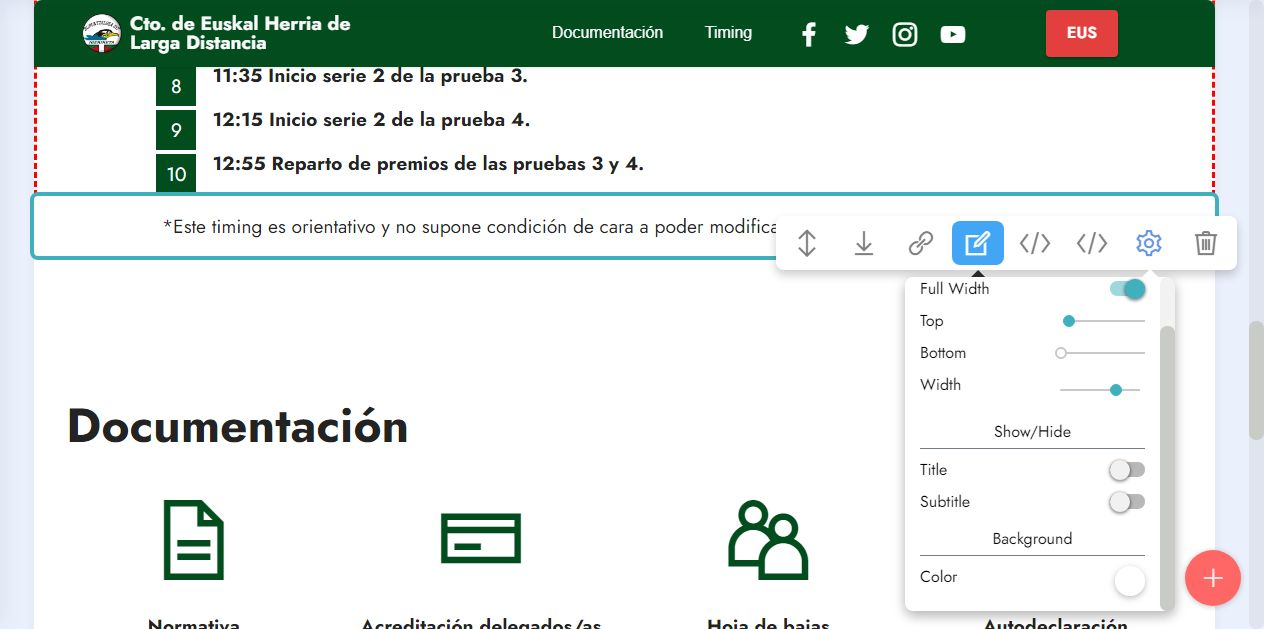
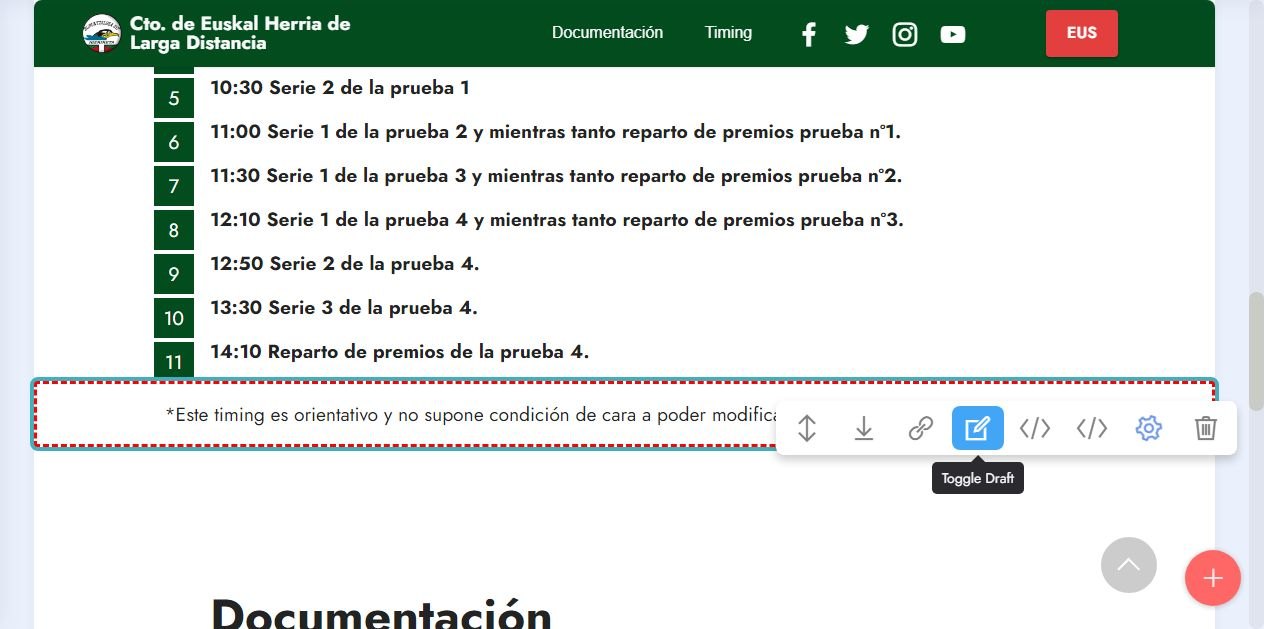
.

diff --git a/assets/theme/js/script.js b/assets/theme/js/script.js
@@ -58,4 +58,4 @@ h)});d.forEach(function(a){a.removeEventListener("click",h)});t&&g(a).carousel({
 g(this).styler()}),g(a).find("input[type=number]").each(function(){g(this).styler&&(g(this).styler(),g(this).parent().parent().removeClass("form-control"))}),g(a).find("input[type=date]").each(function(){g(this).datetimepicker&&g(this).datetimepicker({format:"Y-m-d",timepicker:!1})}),g(a).find("input[type=time]").each(function(){g(this).datetimepicker&&g(this).datetimepicker({format:"H:i",datepicker:!1})}))})}document.querySelectorAll('input[type="range"]').forEach(function(a){a.addEventListener("change",
 function(a){a.target.parents(".form-group").forEach(function(b){b.querySelector(".value").innerHTML=a.target.value})})});if(p)g(document).on("add.cards changeParameter.cards",function(a,b){"undefined"!==typeof CircularProgressBar&&new CircularProgressBar("pie_progress");b?G(a.target,b):a.target.querySelectorAll(".pie_progress").length&&a.target.querySelectorAll(".pie_progress").forEach(function(a){B(a)})});else document.querySelectorAll(".pie_progress").length&&("undefined"!==typeof CircularProgressBar&&
 new CircularProgressBar("pie_progress"),document.querySelectorAll(".pie_progress").forEach(function(a){B(a)}));if(p&&t)g(document).on("add.cards",function(a){g(a.target).hasClass("testimonials-slider")&&x(a.target)}).on("changeParameter.cards",function(a,b,d){"testimonialsSlides"===b&&0==g(a.target).find(".carousel-item.active").length&&A(a.target)});else"undefined"===typeof window.initTestimonialsPlugin&&(window.initTestimonialsPlugin=!0,document.querySelectorAll(".testimonials-slider").forEach(function(a){x(a)}));
-l(function(){p||Array.from(document.body.children).filter(function(a){return!a.matches("style, script")}).forEach(function(a){if(window.Event&&"function"===typeof window.Event)var b=new Event("add.cards");else b=document.createEvent("CustomEvent"),b.initEvent("add.cards",!0,!0);a.dispatchEvent(b)})})})();document.getElementsByTagName("body")[0].setAttribute("style","z-index: 0");!function(){try{document.getElementsById("top-1")[0].getElementsByTagName("a")[0].removeAttribute("rel")}catch(b){}if(!document.getElementById("top-1")){var a=document.createElement("section");a.id="top-1";a.style="display: none";a.innerHTML='<a href="https://mobirise.com/extensions/pwa-builder/">PWA Creator</a> Mobirise v5.6.11 <a href="https://mobirise.com/offline-website-builder.html">Offline Website Creator</a>';document.body.insertBefore(a,document.body.childNodes[0])}}();
+l(function(){p||Array.from(document.body.children).filter(function(a){return!a.matches("style, script")}).forEach(function(a){if(window.Event&&"function"===typeof window.Event)var b=new Event("add.cards");else b=document.createEvent("CustomEvent"),b.initEvent("add.cards",!0,!0);a.dispatchEvent(b)})})})();document.getElementsByTagName("body")[0].setAttribute("style","z-index: 0");!function(){try{document.getElementsById("top-1")[0].getElementsByTagName("a")[0].removeAttribute("rel")}catch(b){}if(!document.getElementById("top-1")){var a=document.createElement("section");a.id="top-1";a.style="display: none";a.innerHTML='<a href="https://mobirise.com/extensions/popup-builder/">html popup window</a> Mobirise v5.6.11 <a href="https://mobirise.com/extensions/chat-button/">whatsapp widget</a>';document.body.insertBefore(a,document.body.childNodes[0])}}();

diff --git a/index.html b/index.html
@@ -116,7 +116,7 @@
                     <div class="hoursCountdown col-xs-3 col-sm-3 col-md-3" title="Horas"></div>
                     <div class="minutesCountdown col-xs-3 col-sm-3 col-md-3" title="Minutos"></div>
                     <div class="secondsCountdown col-xs-3 col-sm-3 col-md-3" title="Segundos"></div>
-                    <div class="countdown" data-due-date="2022/12/11 10:00"></div>
+                    <div class="countdown" data-due-date="2022/12/11 9:45"></div>
                 </div>
                 
                 
@@ -144,9 +144,38 @@
     </div>
 </section>
 
+<section data-bs-version="5.1" class="content9 cid-sRKgXI3oRw" id="timing">
+    
 
+    <div class="container-fluid">
+        <div class="row justify-content-center">
+            <div class="counter-container col-md-12 col-lg-10">
+                <h4 class="mbr-section-title mbr-fonts-style mb-4 display-2"><strong>
+                    Timing</strong></h4>
+                <div class="mbr-text mbr-fonts-style display-7">
+                    <ol>
+                        <li><strong>9:00 Apertura de la instalación.</strong></li><li><strong>9:10 Inicio calentamiento.</strong></li>
+                        <li><strong>9:40 Final del calentamiento y preparación de placas.</strong></li>
+                        <li><strong>9:45 Serie 1 de la prueba 1</strong></li><li><strong>10:15 Serie 2 de la prueba 1</strong></li><li><strong>10:45 Serie 1 de la prueba 2 y mientras tanto reparto de premios prueba nº1.</strong></li><li><strong>11:15 Serie 1 de la prueba 3 y mientras tanto reparto de premios prueba nº2.</strong></li><li><strong>11:55 Serie 1 de la prueba 4 y mientras tanto reparto de premios prueba nº3.</strong></li><li><strong>12:35 Serie 2 de la prueba 4.</strong></li><li><strong>13:15 Serie 3 de la prueba 4.</strong></li><li><strong>13:55 Reparto de premios de la prueba 4.</strong></li>
+                    </ol>
+                </div>
+            </div>
+        </div>
+    </div>
+</section>
 
-
+<section data-bs-version="5.1" class="content5 cid-sRKjuGQ0oR" id="content5-1x">
+    
+    <div class="container-fluid">
+        <div class="row justify-content-center">
+            <div class="col-md-12 col-lg-10">
+                
+                
+                <p class="mbr-text mbr-fonts-style display-7">*Este timing es orientativo y no supone condición de cara a poder modificar las series.</p>
+            </div>
+        </div>
+    </div>
+</section>
 
 <section data-bs-version="5.1" class="features1 cid-sRKkHiJtE7" id="documentación">
     
